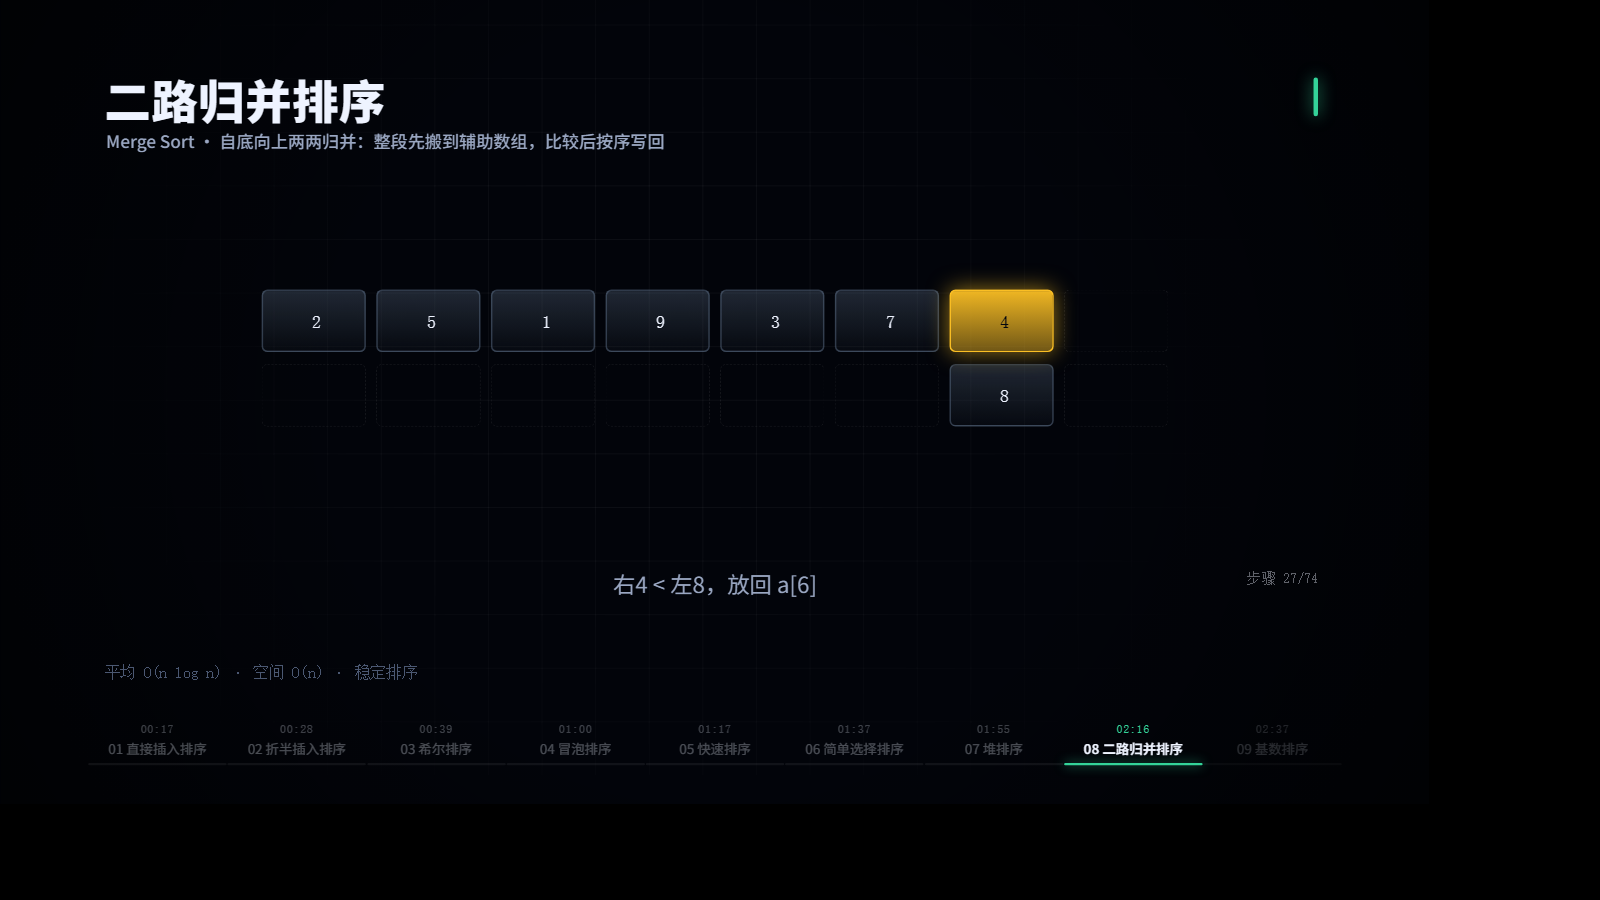
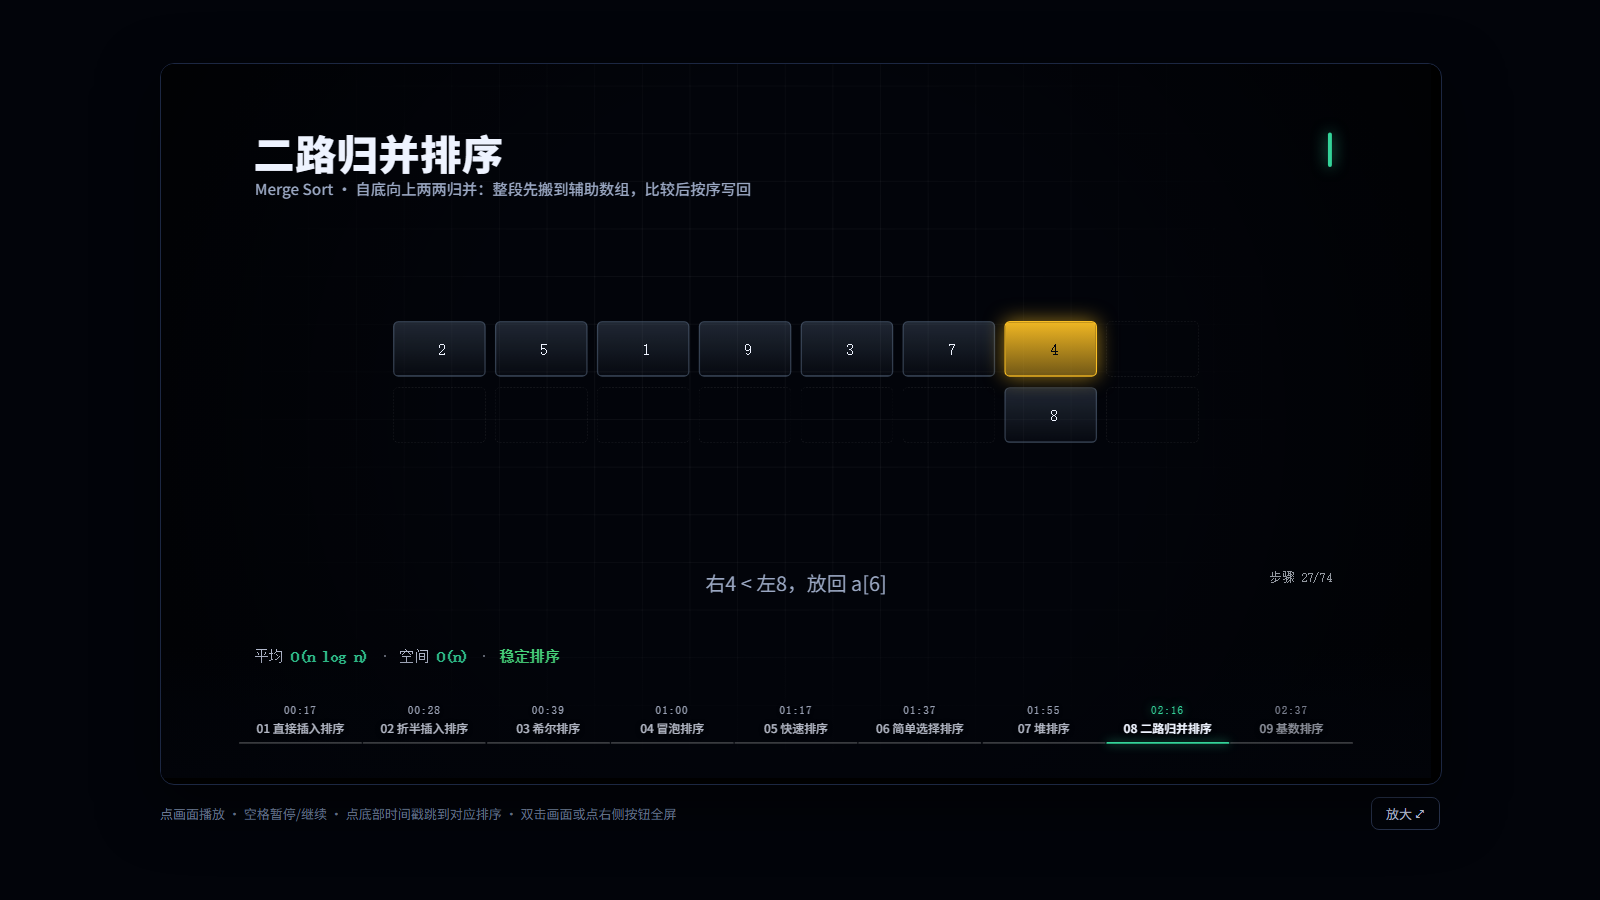
feat: 网页版改为居中卡片布局 + 放大按钮 + 复杂度那行加深
- 默认不再铺满整屏：画面居中（max 1280px，圆角/边框/投影），下方一行提示 + 「放大 ⤢」按钮（整层全屏，时间戳条一起进去）；双击画面同样全屏
- 新增 ?full=1：铺满视口（截图 / iframe 嵌入用）
- SortScene 复杂度脚注原来用 COL.faint(#4b5872) 几乎看不清，改为亮色并把 平均/空间/稳定性 用主题色点出；步骤计数同样加深
- 点击时间戳多跳 0.6s，避免暂停时停在转场模糊帧
- 截图用 ?full=1 重拍

diff --git a/web/App.tsx b/web/App.tsx
@@ -17,6 +17,8 @@ const Q = new URLSearchParams(window.location.search);
  */
 const UI = Q.get('ui') === '1';
 const HUD = Q.get('hud') === '1';
+/** ?full=1：铺满整个视口（默认是居中卡片，适合截图 / iframe 嵌入时用这个） */
+const FULL = Q.get('full') === '1';
 const FRAME0 = (() => {
   const n = Number.parseInt(Q.get('frame') ?? '0', 10);
   return Number.isFinite(n) ? Math.max(0, Math.min(TOTAL - 1, n)) : 0;
@@ -51,6 +53,18 @@ const Btn: React.FC<{onClick: () => void; children: React.ReactNode; color?: str
   </button>
 );
 
+const ghostBtn: React.CSSProperties = {
+  background: 'transparent',
+  color: '#cfd9ee',
+  border: '1px solid #2a3550',
+  borderRadius: 8,
+  padding: '6px 14px',
+  fontSize: 13,
+  cursor: 'pointer',
+  fontFamily: 'inherit',
+  whiteSpace: 'nowrap',
+};
+
 /**
  * 叠在画面底部「时间戳条」上的透明按钮层。
  *
@@ -82,7 +96,8 @@ const ChapterStrip: React.FC<{active: number; onSeek: (frame: number) => void}> 
             title={`跳到 ${c.name}（${fmt(c.start)}）`}
             onClick={(e) => {
               e.stopPropagation();
-              onSeek(c.start);
+              // 多跳 0.6s：章节起始帧正好是转场开始，暂停状态下会停在模糊的过渡帧上
+              onSeek(Math.min(TOTAL - 1, c.start + 36));
             }}
             onMouseEnter={() => setHover(i)}
             onMouseLeave={() => setHover(null)}
@@ -118,6 +133,28 @@ const App: React.FC = () => {
   );
   // 是否处在「排序段落」——与画面里那条烧进去的时间戳条同一个显示区间
   const [showStrip, setShowStrip] = useState(() => FRAME0 >= SORT_RANGE.from && FRAME0 <= SORT_RANGE.to);
+  const shellRef = useRef<HTMLDivElement>(null);
+  const [isFullscreen, setIsFullscreen] = useState(false);
+
+  // 全屏状态跟随浏览器（按 Esc 退出时按钮要跟着变回来）
+  useEffect(() => {
+    const onChange = () => setIsFullscreen(document.fullscreenElement === shellRef.current);
+    document.addEventListener('fullscreenchange', onChange);
+    return () => document.removeEventListener('fullscreenchange', onChange);
+  }, []);
+
+  // 让「包裹层」全屏而不是只让 video 全屏：这样画面底部那条可点击的时间戳条也一起进去
+  const toggleFullscreen = () => {
+    const el = shellRef.current as (HTMLDivElement & {webkitRequestFullscreen?: () => void}) | null;
+    if (!el) return;
+    if (document.fullscreenElement) {
+      void document.exitFullscreen();
+    } else if (el.requestFullscreen) {
+      void el.requestFullscreen();
+    } else if (el.webkitRequestFullscreen) {
+      el.webkitRequestFullscreen();
+    }
+  };
 
   // 字体异步加载，不阻塞首屏；没下完先用系统字体顶（public 里没有字体时静默跳过）
   useEffect(() => {
@@ -181,21 +218,120 @@ const App: React.FC = () => {
     </div>
   );
 
-  // 默认模式：只有画面。点一下播放，空格暂停/继续，双击全屏。
+  // 默认模式：画面居中放在一张卡片里（不铺满整屏），下方可以放大到全屏。
+  // 点一下播放、空格暂停/继续、双击画面也能全屏；?full=1 则铺满视口。
   if (!UI) {
+    if (FULL) {
+      return (
+        <div
+          style={{
+            position: 'fixed',
+            inset: 0,
+            background: '#000',
+            display: 'flex',
+            alignItems: 'center',
+            justifyContent: 'center',
+            overflow: 'hidden',
+          }}
+        >
+          <div ref={shellRef} style={{position: 'relative', width: 'min(100vw, 177.78vh)'}}>
+            <Player
+              ref={ref}
+              component={Main}
+              inputProps={{musicSrc: `${BASE}music.mp3`, mute, hud: HUD}}
+              durationInFrames={TOTAL}
+              fps={FPS}
+              compositionWidth={1920}
+              compositionHeight={1080}
+              initialFrame={FRAME0}
+              controls={false}
+              loop
+              clickToPlay
+              acknowledgeRemotionLicense
+              style={{width: '100%', display: 'block'}}
+            />
+            {showStrip ? <ChapterStrip active={chapter} onSeek={(f) => ref.current?.seekTo(f)} /> : null}
+          </div>
+        </div>
+      );
+    }
     return (
       <div
         style={{
-          position: 'fixed',
-          inset: 0,
-          background: '#000',
+          minHeight: '100vh',
+          background: '#02040a',
           display: 'flex',
+          flexDirection: 'column',
           alignItems: 'center',
           justifyContent: 'center',
-          overflow: 'hidden',
+          padding: '28px 20px 36px',
+          boxSizing: 'border-box',
         }}
       >
-        {player}
+        <div style={{width: '100%', maxWidth: 'min(1280px, 158vh)'}}>
+          <div
+            ref={shellRef}
+            style={
+              isFullscreen
+                ? {
+                    width: '100vw',
+                    height: '100vh',
+                    display: 'flex',
+                    alignItems: 'center',
+                    justifyContent: 'center',
+                    background: '#000',
+                  }
+                : {
+                    position: 'relative',
+                    width: '100%',
+                    borderRadius: 14,
+                    overflow: 'hidden',
+                    border: '1px solid #1c2742',
+                    background: '#000',
+                    boxShadow: '0 20px 60px rgba(0,0,0,0.55)',
+                  }
+            }
+          >
+            <div style={{position: 'relative', width: isFullscreen ? 'min(100%, 177.78vh)' : '100%'}}>
+              <Player
+                ref={ref}
+                component={Main}
+                inputProps={{musicSrc: `${BASE}music.mp3`, mute, hud: HUD}}
+                durationInFrames={TOTAL}
+                fps={FPS}
+                compositionWidth={1920}
+                compositionHeight={1080}
+                initialFrame={FRAME0}
+                controls={false}
+                loop
+                clickToPlay
+                acknowledgeRemotionLicense
+                style={{width: '100%', display: 'block'}}
+              />
+              {/* 画面底部时间戳条的可点击层 */}
+              {showStrip ? <ChapterStrip active={chapter} onSeek={(f) => ref.current?.seekTo(f)} /> : null}
+            </div>
+          </div>
+
+          {isFullscreen ? null : (
+            <div
+              style={{
+                display: 'flex',
+                alignItems: 'center',
+                justifyContent: 'space-between',
+                gap: 12,
+                marginTop: 12,
+                fontSize: 13,
+                color: '#7c8aa6',
+              }}
+            >
+              <span>点画面播放 · 空格暂停/继续 · 点底部时间戳跳到对应排序 · 双击画面或点右侧按钮全屏</span>
+              <button type="button" onClick={toggleFullscreen} style={ghostBtn}>
+                放大 ⤢
+              </button>
+            </div>
+          )}
+        </div>
       </div>
     );
   }

diff --git a/src/scenes/SortScene.tsx b/src/scenes/SortScene.tsx
@@ -30,9 +30,26 @@ export const SortScene: React.FC<{algo: Algo; per: number; color: string}> = ({a
         }}
       />
       <SortStage steps={steps} meta={algo} start={30} per={per} />
-      <Txt x={140} y={890} size={21} mono color={COL.faint}>
-        平均 {algo.time} · 空间 {algo.space} · {algo.stable ? '稳定排序' : '不稳定排序'}
-      </Txt>
+      {/* 复杂度脚注：原来用 COL.faint(#4b5872) 太暗，几乎看不清；关键值用本段主题色点出来 */}
+      <div
+        style={{
+          position: 'absolute',
+          left: 140,
+          top: 884,
+          fontFamily: FONT.mono,
+          fontSize: 22,
+          letterSpacing: 0.5,
+          color: 'rgba(223,232,255,0.82)',
+        }}
+      >
+        平均 <span style={{color, fontWeight: 700}}>{algo.time}</span>
+        <span style={{color: 'rgba(223,232,255,0.45)'}}> · </span>
+        空间 <span style={{color, fontWeight: 700}}>{algo.space}</span>
+        <span style={{color: 'rgba(223,232,255,0.45)'}}> · </span>
+        <span style={{color: algo.stable ? '#4ade80' : '#fb923c', fontWeight: 700}}>
+          {algo.stable ? '稳定排序' : '不稳定排序'}
+        </span>
+      </div>
     </AbsoluteFill>
   );
 };

diff --git a/src/scenes/sorts/SortStage.tsx b/src/scenes/sorts/SortStage.tsx
@@ -194,7 +194,7 @@ export const SortStage: React.FC<{
           top: area.y + area.h + 50,
           fontFamily: FONT.mono,
           fontSize: 19,
-          color: rgba('#eef3ff', 0.4),
+          color: rgba('#eef3ff', 0.62),
         }}
       >
         步骤 {idx + 1}/{steps.length}

diff --git a/README.md b/README.md
@@ -156,7 +156,7 @@ scripts/                 时间轴导出、算法快照自检
 dist/                    web:build 产物（推到 gh-pages 的就是它）
 ```
 
-## 网页实时版（默认只有画面）
+## 网页实时版（默认居中卡片，可放大）
 
 ```tsx
 <Player
@@ -166,19 +166,20 @@ dist/                    web:build 产物（推到 gh-pages 的就是它）
   compositionWidth={1920} compositionHeight={1080}
   controls={UI}                                          // 只有 ?ui=1 才出进度条等控件
   loop clickToPlay acknowledgeRemotionLicense
-  style={UI ? {width: '100%'} : {width: 'min(100vw, 177.78vh)'}}   // 默认整屏 16:9
+  style={{width: '100%'}}                                // 外层容器负责居中/铺满
 />
 ```
 
 | URL 参数 | 效果 |
 |---|---|
-| 无参数 | **纯画面**：整屏 16:9，点一下播放、空格暂停/继续、双击全屏；没有进度条、没有章节按钮 |
+| 无参数 | **居中卡片**：画面居中（最大 1280px，圆角+边框+投影，不铺满整屏）；点画面播放、空格暂停/继续、双击画面或点右下「放大 ⤢」按钮全屏（全屏时底部时间戳条一起进去）；没有播放器进度条、没有章节按钮 |
+| `?full=1` | 铺满整个视口（截图、iframe 嵌入时用这个） |
 | `?ui=1` | 调试 UI：标题说明、章节跳转按钮、播放/静音、当前帧读数、播放器进度条 |
 | `?hud=1` | 额外把幕名 / 时间码 / 进度圈（ActHUD）烧进画面（渲染成片可传 `<Composition defaultProps={{hud: true}}>`） |
 | `?frame=2200` | 深链：直接定位到第 N 帧 |
 
 - **章节跳转**：`playerRef.seekTo(ACT_RANGES[i].s)`，`?ui=1` 下那排按钮就是 `ACT_RANGES` 渲染出来的；
-- **底部时间戳条可以直接点**：画面里那条是烧进视频的（渲染成片里也有，静态信息），网页版在**同一位置**叠了一层透明按钮，点哪个排序就 seek 到那一段的起始帧——两者位置/宽度都按 1920×1080 的同一套比例算，严丝合缝；
+- **底部时间戳条可以直接点**：画面里那条是烧进视频的（渲染成片里也有，静态信息），网页版在**同一位置**叠了一层透明按钮（实测对齐误差 < 0.01%），点哪个排序就跳到那一段——多跳 0.6 秒，避免暂停时停在转场模糊帧上；
 - **状态回读**：播放器用事件往外推状态（`play` / `pause` / `frameupdate`）——
   ⚠ `onFrameUpdate` 这类 prop 在新版 `@remotion/player` 里已经没有，要用 `addEventListener('frameupdate', …)`；
 - **字体**：`FontFace` 异步加载，不阻塞首屏；渲染端则用 `delayRender/continueRender` 等字体就绪。
